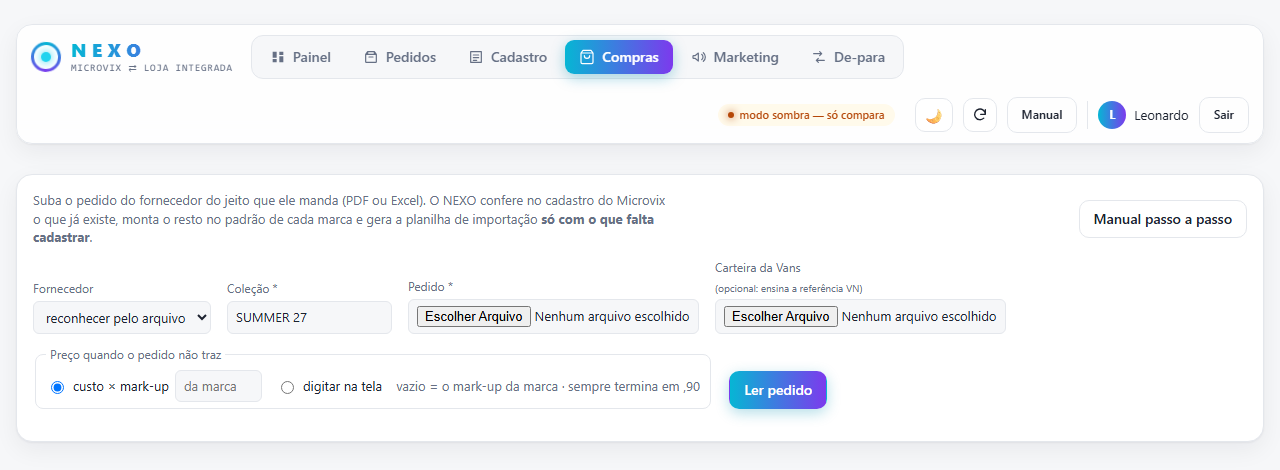
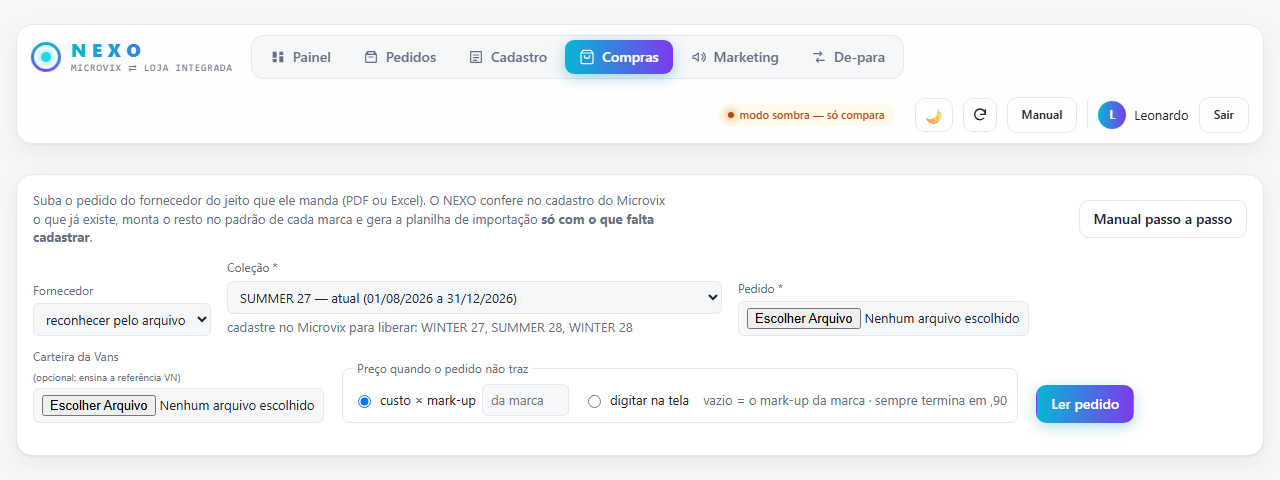
Manual Pedidos de Compra: coleção escolhida da lista do Microvix
Explica que a coleção precisa estar cadastrada no Microvix, o calendário
SUMMER/WINTER e troca o print do formulário pela lista nova.

diff --git a/public/manuais/pedidos-compra.html b/public/manuais/pedidos-compra.html
@@ -297,7 +297,7 @@
     <p class="h2-nota">Sem isto em mãos, você trava no meio.</p>
     <ul class="antes">
       <li><span>O <b>pedido do fornecedor</b> do jeito que ele mandou: PDF ou Excel. Não precisa arrumar nada no arquivo.</span></li>
-      <li><span>A <b>coleção</b> desse pedido (hoje SUMMER 27). Ela é escolhida antes de subir e vale para o pedido inteiro.</span></li>
+      <li><span>A <b>coleção</b> desse pedido, <b>já cadastrada no Microvix</b>. Ela é escolhida antes de subir e vale para o pedido inteiro. Coleção que ainda não existe no Microvix aparece bloqueada na lista: cadastre lá primeiro.</span></li>
       <li><span>Login do gestão de <b>ADM ou escritório</b>. A aba Compras não aparece para outros logins, porque mostra custo e mark-up.</span></li>
       <li><span><b>Vans:</b> se o pedido vier sem a referência VN (só o código global, tipo <span class="mono">V1001100170001</span>), tenha à mão a <b>carteira da Vans</b>. Ela ensina a referência ao NEXO.</span></li>
     </ul>
@@ -351,11 +351,12 @@
         <h3>Preencha e clique em Ler pedido</h3>
         <dl class="campos">
           <div><dt>Fornecedor</dt><dd><em>deixe "reconhecer pelo arquivo"; escolha só se ele não reconhecer</em></dd></div>
-          <div><dt>Coleção</dt><dd>a coleção do pedido <em>(obrigatória)</em></dd></div>
+          <div><dt>Coleção</dt><dd>a do pedido <em>(a lista mostra a atual e as próximas; a atual já vem escolhida)</em></dd></div>
           <div><dt>Pedido</dt><dd>o arquivo do fornecedor</dd></div>
           <div><dt>Carteira da Vans</dt><dd><em>só para Vans sem referência VN</em></dd></div>
           <div><dt>Preço quando o pedido não traz</dt><dd>custo &times; mark-up <em>ou</em> digitar na tela</dd></div>
         </dl>
+        <div class="aviso"><b>Calendário das coleções.</b> SUMMER vai de 01/08 a 31/12 do ano anterior (SUMMER 27 = 01/08/2026 a 31/12/2026). WINTER vai de 01/01 a 31/07 do próprio ano (WINTER 27 = 01/01/2027 a 31/07/2027). O NEXO calcula qual é a atual pela data e confere no Microvix quais já estão cadastradas.</div>
         <figure class="tela"><img src="/manuais/pedidos-compra/form.png" alt="Formulário da aba Compras: fornecedor, coleção SUMMER 27, arquivo do pedido, carteira da Vans e preço quando o pedido não traz" loading="lazy"><figcaption>Aba Compras &middot; subir o pedido</figcaption></figure>
       </div>
     </li>
